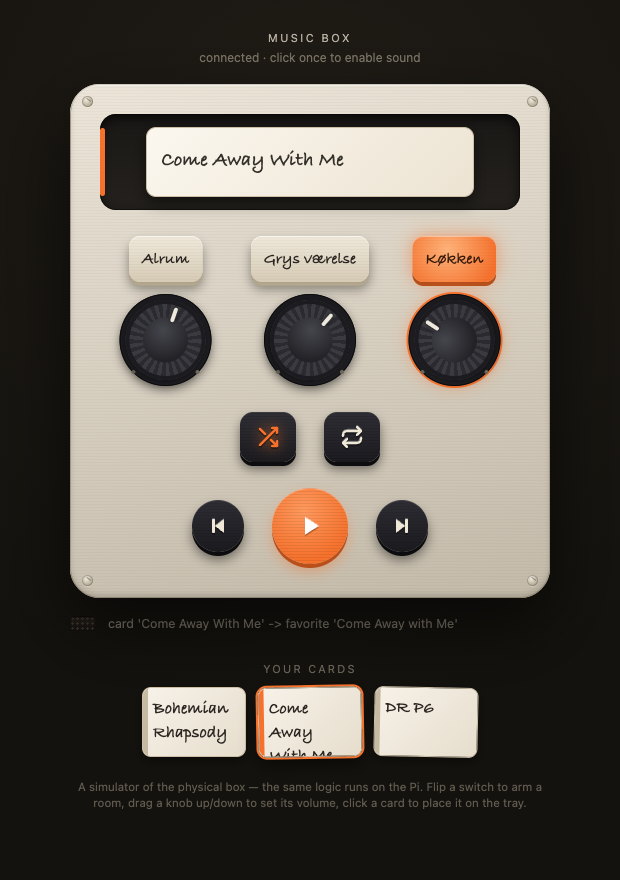
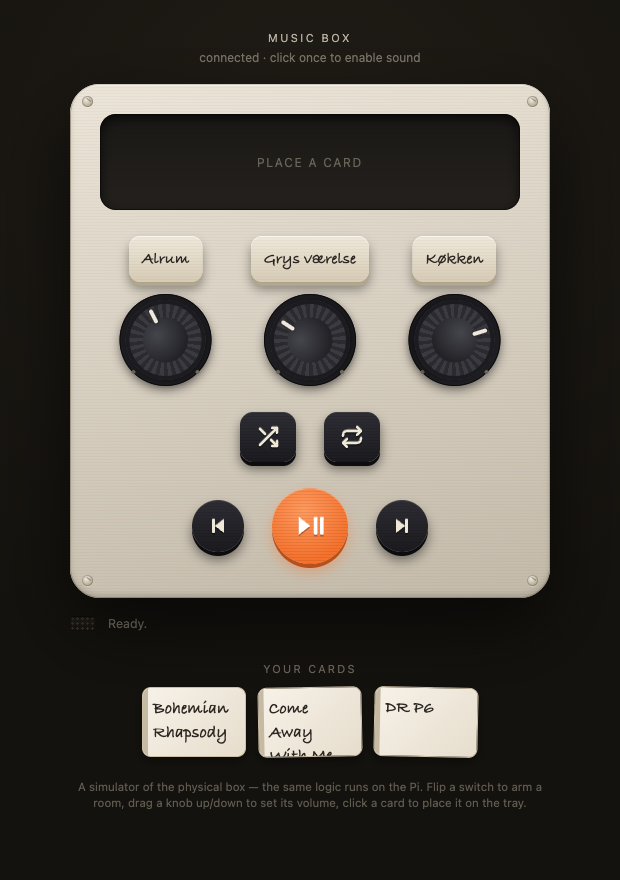
Stop on card removal; give play/pause a fixed printed symbol
Two physical-realism fixes. Lifting the card off the spot now stops
playback (like taking a record off a turntable), so remove_card stops
the coordinator and clears the playing state — covered by a new logic
test. And the play/pause button now shows a single fixed play/pause
glyph instead of swapping between play and pause icons, because a molded
physical button can't change its face; playback state is conveyed by the
button's LED glow instead.

diff --git a/software/web/templates/index.html b/software/web/templates/index.html
@@ -216,7 +216,7 @@
       <button class="tbtn small" id="prev" title="previous">
         <svg class="icon" viewBox="0 0 24 24" fill="currentColor"><path d="M18 5 18 19 9 12z"/><rect x="6" y="5" width="3" height="14" rx="1"/></svg></button>
       <button class="tbtn play" id="play" title="play / pause">
-        <svg class="icon" viewBox="0 0 24 24" fill="currentColor"><path d="M8 5v14l11-7z"/></svg></button>
+        <svg class="icon" viewBox="0 0 24 24" fill="currentColor"><path d="M3 5v14l9-7z"/><rect x="15" y="5" width="3" height="14" rx="1"/><rect x="20" y="5" width="3" height="14" rx="1"/></svg></button>
       <button class="tbtn small" id="next" title="next">
         <svg class="icon" viewBox="0 0 24 24" fill="currentColor"><path d="M6 5 6 19 15 12z"/><rect x="15" y="5" width="3" height="14" rx="1"/></svg></button>
     </div>
@@ -235,8 +235,6 @@
 
 <script>
 const CUES = {{ cues|safe }};
-const PLAY_SVG = `<svg class="icon" viewBox="0 0 24 24" fill="currentColor"><path d="M8 5v14l11-7z"/></svg>`;
-const PAUSE_SVG = `<svg class="icon" viewBox="0 0 24 24" fill="currentColor"><rect x="6" y="5" width="4" height="14" rx="1"/><rect x="14" y="5" width="4" height="14" rx="1"/></svg>`;
 let actx = null, currentCard = null, activeDragRoom = null;
 
 const same = (a, b) => (a || "").trim().toLowerCase() === (b || "").trim().toLowerCase();
@@ -361,9 +359,8 @@ function render(state) {
   document.getElementById("shuffle").classList.toggle("on", !!state.shuffle);
   document.getElementById("repeat").classList.toggle("on", !!state.repeat);
 
-  const play = document.getElementById("play");
-  play.classList.toggle("playing", !!state.playing);
-  play.innerHTML = state.playing ? PAUSE_SVG : PLAY_SVG;
+  // Fixed printed symbol — a real molded button can't change. State shows via the LED glow.
+  document.getElementById("play").classList.toggle("playing", !!state.playing);
 
   const tray = document.getElementById("tray");
   tray.classList.toggle("filled", !!state.current_card);

diff --git a/software/tests/test_core.py b/software/tests/test_core.py
@@ -68,6 +68,10 @@ class FakeSpeaker:
     def pause(self):
         self.transport_state = "PAUSED_PLAYBACK"
 
+    def stop(self):
+        self.transport_state = "STOPPED"
+        self.log.append("stop")
+
     def next(self):
         self.log.append("next")
 
@@ -149,6 +153,11 @@ def main():
     # disarm coordinator's partner stops it live
     box.toggle_room("Alrum")
     check("Alrum unjoined live", "unjoin" in box.speakers["Alrum"].log)
+
+    # removing the card off the spot stops playback (physical behaviour)
+    box.remove_card()
+    check("removing card stops coordinator", "stop" in box.speakers["Køkken"].log)
+    check("not playing after card removed", box.playing is False)
 
     # play with armed room but no card -> pause/resume toggle
     box2 = make_box()

diff --git a/software/musicbox/core.py b/software/musicbox/core.py
@@ -132,8 +132,12 @@ class MusicBox:
         return _ok(f"card {card_id!r} -> favorite {self.card_map[card_id]!r}")
 
     def remove_card(self):
+        # Physical behaviour: lifting the card off the spot stops the music.
         self.current_card = None
-        return _ok("card removed")
+        if self.playing and self.coordinator_name:
+            self._try(self.speakers[self.coordinator_name].stop)
+        self.playing = False
+        return _ok("card removed — playback stopped")
 
     # --- transport -------------------------------------------------------
 

diff --git a/README.md b/README.md
@@ -251,8 +251,12 @@ No general-purpose display. State is shown by the physical controls themselves
     illuminated press button with the label on the cap, per preference.)
 - **Play** button: group the currently-armed rooms (SoCo `join`/`unjoin`) and play
   the favorite mapped to the card sitting on the spot. Press again = pause/resume.
+  It carries a **single fixed play/pause symbol** (a molded button can't change its
+  face) — playback state is shown by the button's LED, not by swapping the glyph.
   - **If no room is armed, `play` does nothing** except sound a short **error beep**
     (see buzzer below). No silent no-op, no surprise default room.
+- **Removing the card stops playback.** Lifting the card off the spot is the natural
+  "stop" — like taking a record off a turntable. (Pause/resume stays on the play button.)
 - **Previous / Next** buttons: skip within the current queue (SoCo `previous()` /
   `next()`). Some favorites are single tracks where skip won't apply — that's fine.
 - **Shuffle** and **Repeat** illuminated symbol buttons: press to toggle; the symbol
